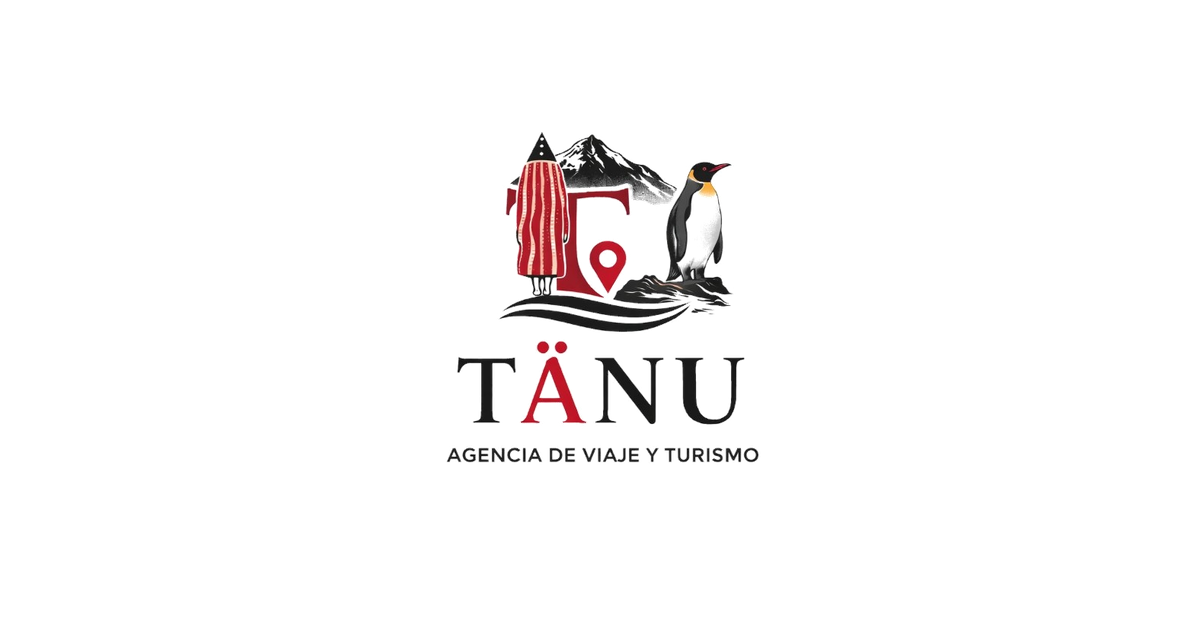
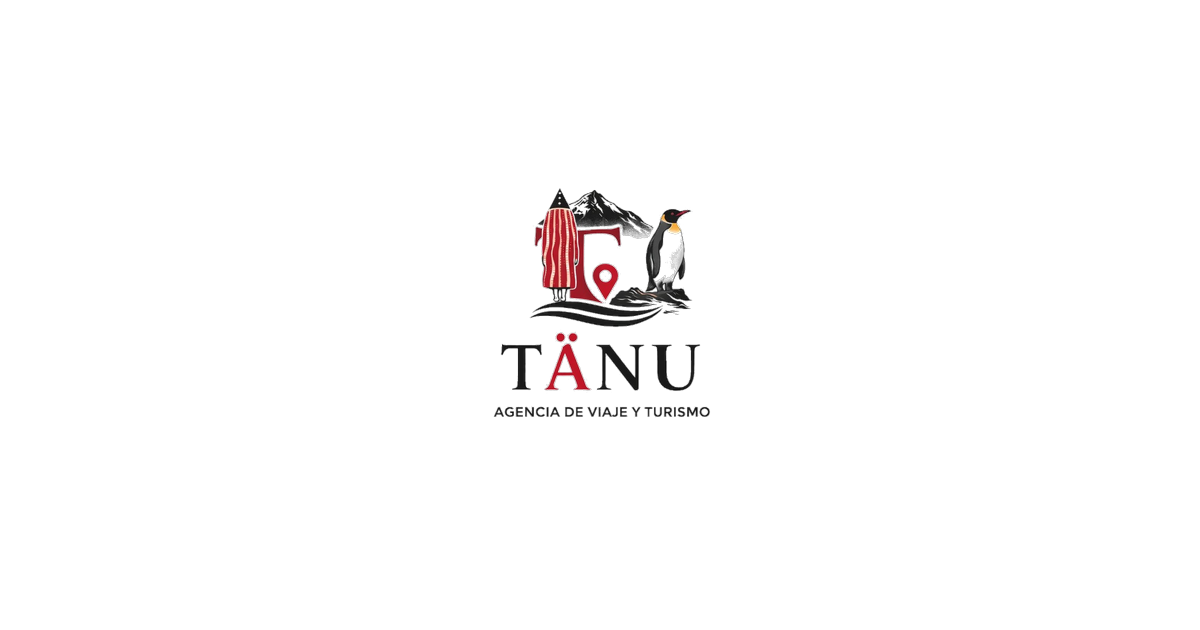
Hacer la vista previa del link más chica y con fondo transparente.

Changed region(s): [[0.37, 0.2111, 0.6475, 0.754]]

diff --git a/index.html b/index.html
@@ -21,18 +21,19 @@
       content="Vive Tierra del Fuego con tours y transporte local en Porvenir. Consultá por WhatsApp."
     />
     <meta property="og:url" content="https://tanu-gamma-one.vercel.app/" />
-    <meta property="og:image" content="https://tanu-gamma-one.vercel.app/images/og-share.png" />
-    <meta property="og:image:width" content="1200" />
-    <meta property="og:image:height" content="630" />
+    <meta property="og:image" content="https://tanu-gamma-one.vercel.app/images/og-share-square.png" />
+    <meta property="og:image:type" content="image/png" />
+    <meta property="og:image:width" content="512" />
+    <meta property="og:image:height" content="512" />
     <meta property="og:image:alt" content="Tänu Agencia de Viaje y Turismo" />
 
-    <meta name="twitter:card" content="summary_large_image" />
+    <meta name="twitter:card" content="summary" />
     <meta name="twitter:title" content="Tänu | Transporte y tours en Porvenir" />
     <meta
       name="twitter:description"
       content="Vive Tierra del Fuego con tours y transporte local en Porvenir."
     />
-    <meta name="twitter:image" content="https://tanu-gamma-one.vercel.app/images/og-share.png" />
+    <meta name="twitter:image" content="https://tanu-gamma-one.vercel.app/images/og-share-square.png" />
 
     <link rel="preconnect" href="https://fonts.googleapis.com" />
     <link rel="preconnect" href="https://fonts.gstatic.com" crossorigin />